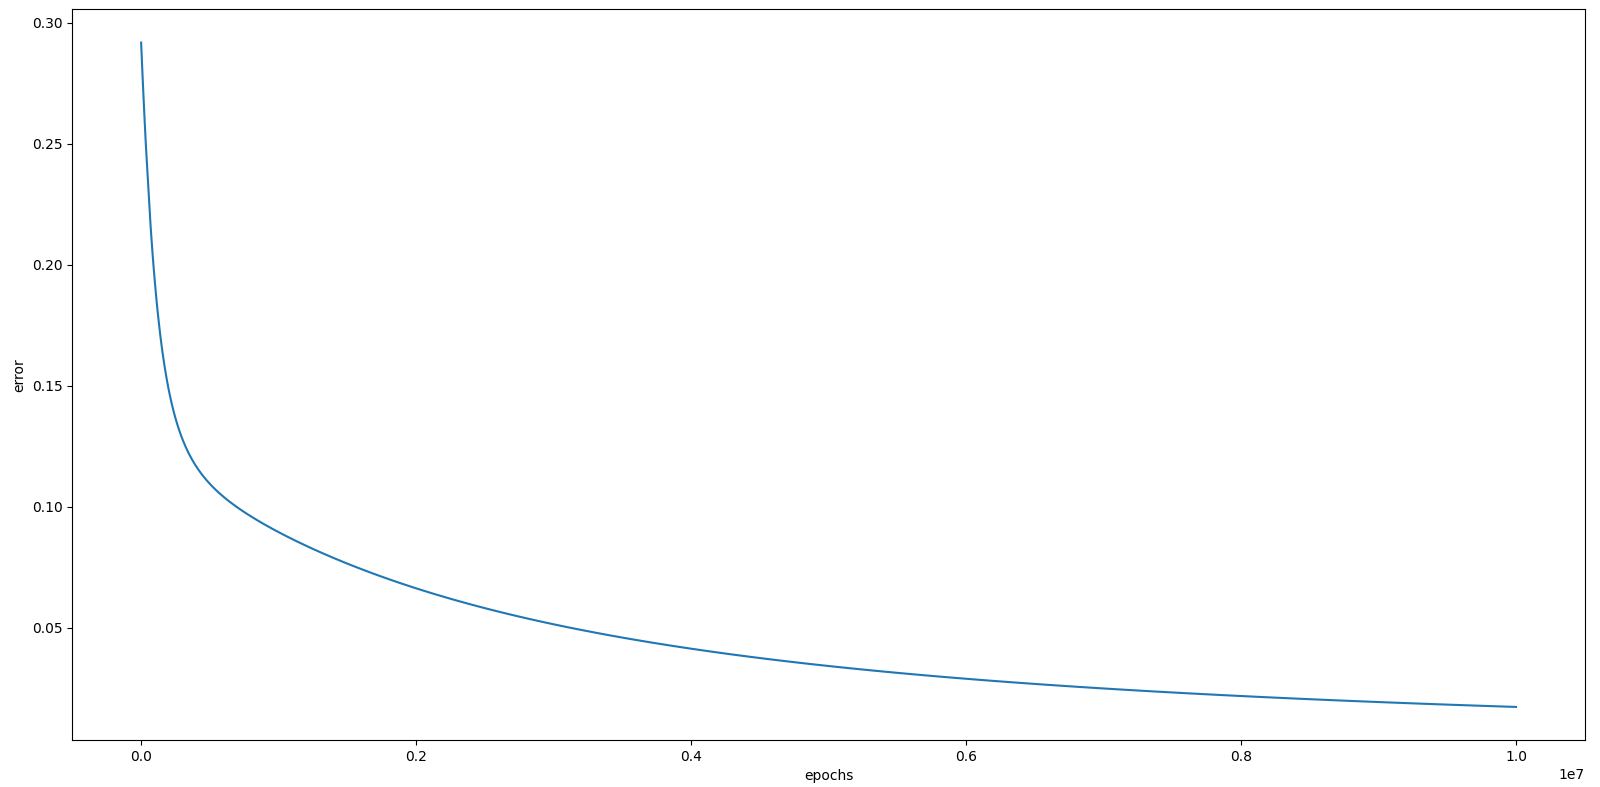
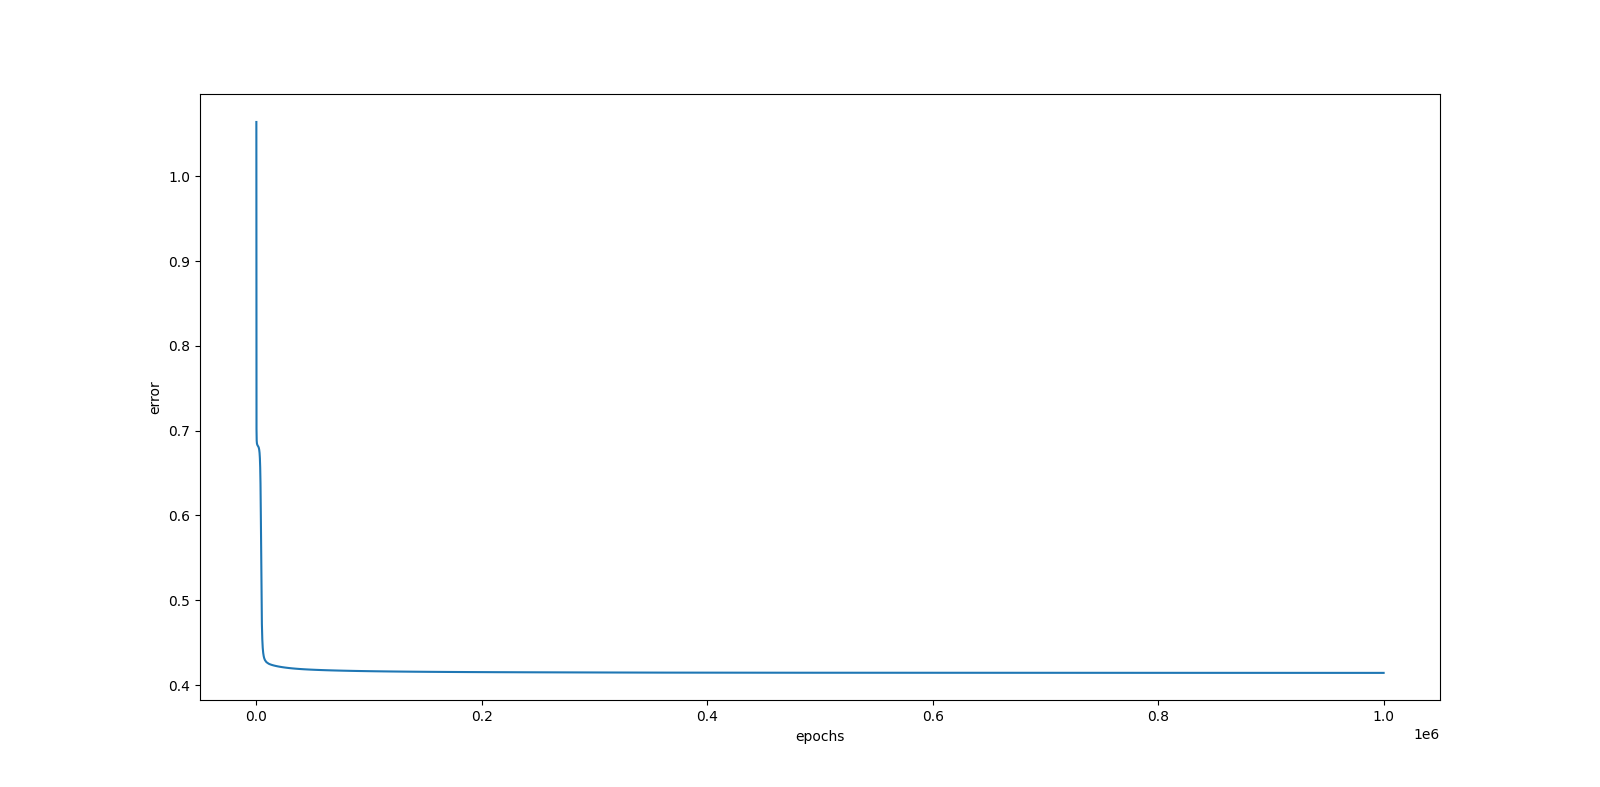
i changed the training set from a simple OR gate to the Iris dataset, the model performance is so bad, i thing i might need to change the activation function

diff --git a/main.c b/main.c
@@ -3,86 +3,131 @@
 #include <math.h>
 #include <stdlib.h>
 #include <time.h>
+#include <string.h>
 
 #include "headers/activation.h"
 #include "headers/define.h"
 #include "headers/init.h"
 #include "headers/general.h"
+#include "headers/csv_reader.h"
 
-#define learning_rate 0.1
-#define EPOCHS 30000
+#define learning_rate 0.001
+#define EPOCHS 1000000
 
 
 
 int main() {
     srand(time(NULL));
 
-    FILE *error_file;
+    FILE *error_file, *csv;
     error_file = fopen("plot/error_file.csv", "w");
-    if(error_file == NULL){
+    csv = fopen("plot/Iris.csv", "r");
+
+    if(error_file == NULL || csv == NULL){
         printf("failed to open file");
         return 1;
     }
+
+    printf("files opened\n");
+
     fprintf(error_file, "epochs,error\n");
 
-    double training_inputs[NUM_EXAMPLES][INPUT_SIZE] = {
-        {0, 0},
-        {0, 1},
-        {1, 0},
-        {1, 1}
-    };
+    int lenght;
+    double *training_inputs[4];
+    char **training_expected;
+    double training[150];
 
-    double training_expected[NUM_EXAMPLES][OUTPUT_SIZE] = {
-        {0},
-        {1},
-        {1},
-        {1}
-    };
+    for(int i=1; i<5; i++){
+        rewind(csv);
+        training_inputs[i-1] = read_double_column(csv, i, &lenght);
+    }
+    printf("inputs extracted\n");
 
+    rewind(csv);
+    training_expected = read_string_column(csv, 5, &lenght);
+    
+    printf("outputs extracted\n");
 
+    for(int i=0; i<lenght; i++){
+        if(!strcmp(training_expected[i], "Iris-setosa")){
+            training[i]=0;
+        } else if (!strcmp(training_expected[i], "Iris-versicolor")){
+            training[i]=1;
+        } else{
+            training[i]=2;
+        }
+    }
+
+    printf("names changed to numbers\n");
+
+    int shuffled_index[150];
+    shuffle_array(shuffled_index, lenght);
+
+    printf("indecies shuffled\n");
    
-    Layer layer1 ={.neuron_count=3};
-    init_layer(&layer1, 2);
-    Layer layer2 ={.neuron_count=2};
-    init_layer(&layer2, 3);
+    Layer layer1 ={.neuron_count=4};
+    init_layer(&layer1, 1);
+    Layer layer2 ={.neuron_count=10};
+    init_layer(&layer2, 4);
     Layer layer3 ={.neuron_count=1};
-    init_layer(&layer3, 2);
+    init_layer(&layer3, 4);
 
     Layer layers[]={layer1,layer2,layer3};
     Network network = {.layer_count=3, .layers=layers};
 
+    printf("network created\n");
+
     time_t start = time(NULL);
     for(int epoch=0; epoch< EPOCHS; epoch++){
         double error_rate=0;
-        for(int i=0; i<4; i++){ 
-            forward_layer(&network.layers[0], training_inputs[i]);
+        double inputs[4];
+        for(int i=0; i<lenght-20; i++){ 
+            int index = shuffled_index[i];
+            for(int j=0; j<4; j++){
+                inputs[j] = training_inputs[j][index];
+            }
+
+            forward_layer(&network.layers[0], inputs);
             forward_layer(&network.layers[1], network.layers[0].activation_array);
             forward_layer(&network.layers[2], network.layers[1].activation_array);
 
-            backward_output_layer(&network.layers[2], network.layers[1].activation_array, training_expected[i], learning_rate);
+            backward_output_layer(&network.layers[2], network.layers[1].activation_array, &training[index], learning_rate);
             backward_hidden_layer(&network.layers[1], &network.layers[2], network.layers[0].activation_array, learning_rate);
-            backward_hidden_layer(&network.layers[0], &network.layers[1], training_inputs[i], learning_rate);
+            backward_hidden_layer(&network.layers[0], &network.layers[1], inputs, learning_rate);
 
             update_weight(&network.layers[2], network.layers[1].activation_array,learning_rate);
             update_weight(&network.layers[1], network.layers[0].activation_array,learning_rate);
-            update_weight(&network.layers[0], training_inputs[i],learning_rate);
+            update_weight(&network.layers[0], inputs,learning_rate);
 
-            error_rate += error(network.layers[2].activation_array[0], training_expected[i][0]);
+    
+            error_rate += error(network.layers[2].activation_array[0], training[index]);
         }
-        fprintf(error_file,"%i,%f\n",epoch,error_rate/4.0);
+        fprintf(error_file,"%i,%f\n",epoch,error_rate/130.0);
+        if(epoch % 10000 ==0){
+            printf("epoch: %i | error: %f\n", epoch, error_rate/130.0);
+        }
     }
+
+    printf("training done\n");
+
     time_t end = time(NULL);
-    for(int i=0; i<4; i++){
-        forward_layer(&network.layers[0], training_inputs[i]);
-        forward_layer(&network.layers[1], layer1.activation_array);
-        forward_layer(&network.layers[2], layer2.activation_array);
+    for(int i=lenght-20; i<lenght; i++){
+        int index = shuffled_index[i];
+        double inputs[4];
+        for(int i=0; i<4; i++){
+            inputs[i] = training_inputs[i][index];
+        }
+        forward_layer(&network.layers[0], inputs);
+        forward_layer(&network.layers[1], network.layers[0].activation_array);
+        forward_layer(&network.layers[2], network.layers[1].activation_array);
 
-        double error_rate = network.layers[2].activation_array[0] - training_expected[i][0];
-        printf("prediction: %f | training expected: %f | error: %f\n",network.layers[2].activation_array[0],training_expected[i][0], error_rate);
+        double error_rate = network.layers[2].activation_array[0] - training[index];
+        printf("prediction: %f | training expected: %f | error: %f\n",network.layers[2].activation_array[0],training[index], error_rate);
     }
-    printf("time taken: %jd", (intmax_t)(end-start));
+    printf("testing done\n");
+    printf("time taken: %jds\n", (intmax_t)(end-start));
 
-
+    printf("closing the program\n");
     destroy_network(&network);
     fclose(error_file);
     return 0;

diff --git a/headers/csv_reader.c b/headers/csv_reader.c
@@ -1,0 +1,103 @@
+#include <stdlib.h>
+#include <stdio.h>
+#include <string.h>
+
+double *read_double_column(FILE *csv, int column_number, int *lenght){
+    char line[1024];
+    double *column = NULL;
+    const char *delimeter =",";
+    char *tok;
+    char *end;
+
+    if (fgets(line, sizeof(line), csv) == NULL) {
+        fclose(csv);
+        exit(1);
+    }
+
+    int j=0;
+    while (fgets(line, sizeof(line), csv)){
+        int i=0;
+        tok = strtok(line, delimeter);
+
+        while(tok !=NULL && i<column_number){
+            tok = strtok(NULL, delimeter);
+            i++;
+        }
+
+        if(tok == NULL){
+            continue;
+        }
+
+        double db = strtod(tok ,&end);
+        if(tok == end){
+            continue;
+        }
+        
+        column = realloc(column,sizeof(double) * (j+1));
+
+        if (column == NULL) {
+            printf("Memory reallocation failed.\n");
+            free(column);
+            exit(1);
+        }
+
+        column[j++]=db;
+        *lenght = j;
+    }
+    return column;
+}
+
+char **read_string_column(FILE *csv, int column_number, int *lenght){
+    char line[1024];
+    char **column = NULL;
+    const char *delimeter =",";
+    char *tok;
+
+    if (fgets(line, sizeof(line), csv) == NULL) {
+        fclose(csv);
+        exit(1);
+    }
+
+    int j=0;
+    while (fgets(line, sizeof(line), csv)){
+        int i=0;
+        tok = strtok(line, delimeter);
+
+        while(tok !=NULL && i<column_number){
+            tok = strtok(NULL, delimeter);
+            i++;
+        }
+
+        if(tok == NULL){
+            continue;
+        }
+
+        size_t len = strlen(tok);
+        while (len > 0 && (tok[len-1] == '\n' || tok[len-1] == '\r')) {
+            tok[--len] = '\0';
+        }
+
+        
+        char **temp = realloc(column,sizeof(char *) * (j+1));
+
+        if (temp == NULL) {
+            printf("Memory reallocation failed.\n");
+            for (int k = 0; k < j; k++) free(column[k]);
+            free(column);
+            exit(1);
+        }
+        column = temp;
+
+        column[j] = strdup(tok);
+        if (column[j] == NULL) {
+            printf("strdup failed.\n");
+            for (int k = 0; k < j; k++) free(column[k]);
+            free(column);
+            exit(1);
+        }
+        j++;
+        
+    }
+    *lenght = j;
+    return column;
+}

diff --git a/headers/general.c b/headers/general.c
@@ -1,6 +1,7 @@
 #include "define.h"
 #include "activation.h"
 #include <stdio.h>
+#include <stdlib.h>
 
 double error(double calculated, double expected){
     return (expected - calculated)*(expected - calculated);
@@ -69,3 +70,16 @@ void update_weight(Layer *layer,double inputs[], double learning_rate){
     update_weight(&network.layers[1], network.layers[0].activation_array,learning_rate);
     update_weight(&network.layers[0], training_inputs[i],learning_rate);
 }*/
+
+void shuffle_array(int array[], int n){
+    for(int i=0; i<n; i++){
+        array[i]=i;
+    }
+    for(int i =n-1; i>0; i--){
+        int j = rand() % (i+1);
+
+        int temp = array[i];
+        array[i] = array[j];
+        array[j] = temp;
+    }
+}

diff --git a/headers/csv_reader.h b/headers/csv_reader.h
@@ -1,0 +1,2 @@
+double *read_double_column(FILE *csv, int column_number, int *lenght);
+char **read_string_column(FILE *csv, int column_number, int *lenght);

diff --git a/plot/plot.py b/plot/plot.py
@@ -1,7 +1,7 @@
 import pandas as pd
 import matplotlib.pyplot as plt
 
-df = pd.read_csv("error_file.csv")
+df = pd.read_csv("neural_network\plot\error_file.csv")
 
 plt.plot(df['epochs'], df['error'])
 plt.xlabel('epochs')

diff --git a/headers/general.h b/headers/general.h
@@ -6,3 +6,4 @@ void forward_layer(Layer *layer, double inputs[]);
 void backward_output_layer(Layer *layer, double inputs[], double expected[], double learning_rate) ;
 void backward_hidden_layer(Layer *layer, Layer *next_layer, double inputs[], double learning_rate);
 void update_weight(Layer *layer,double inputs[], double learning_rate);
+void shuffle_array(int array[], int n);